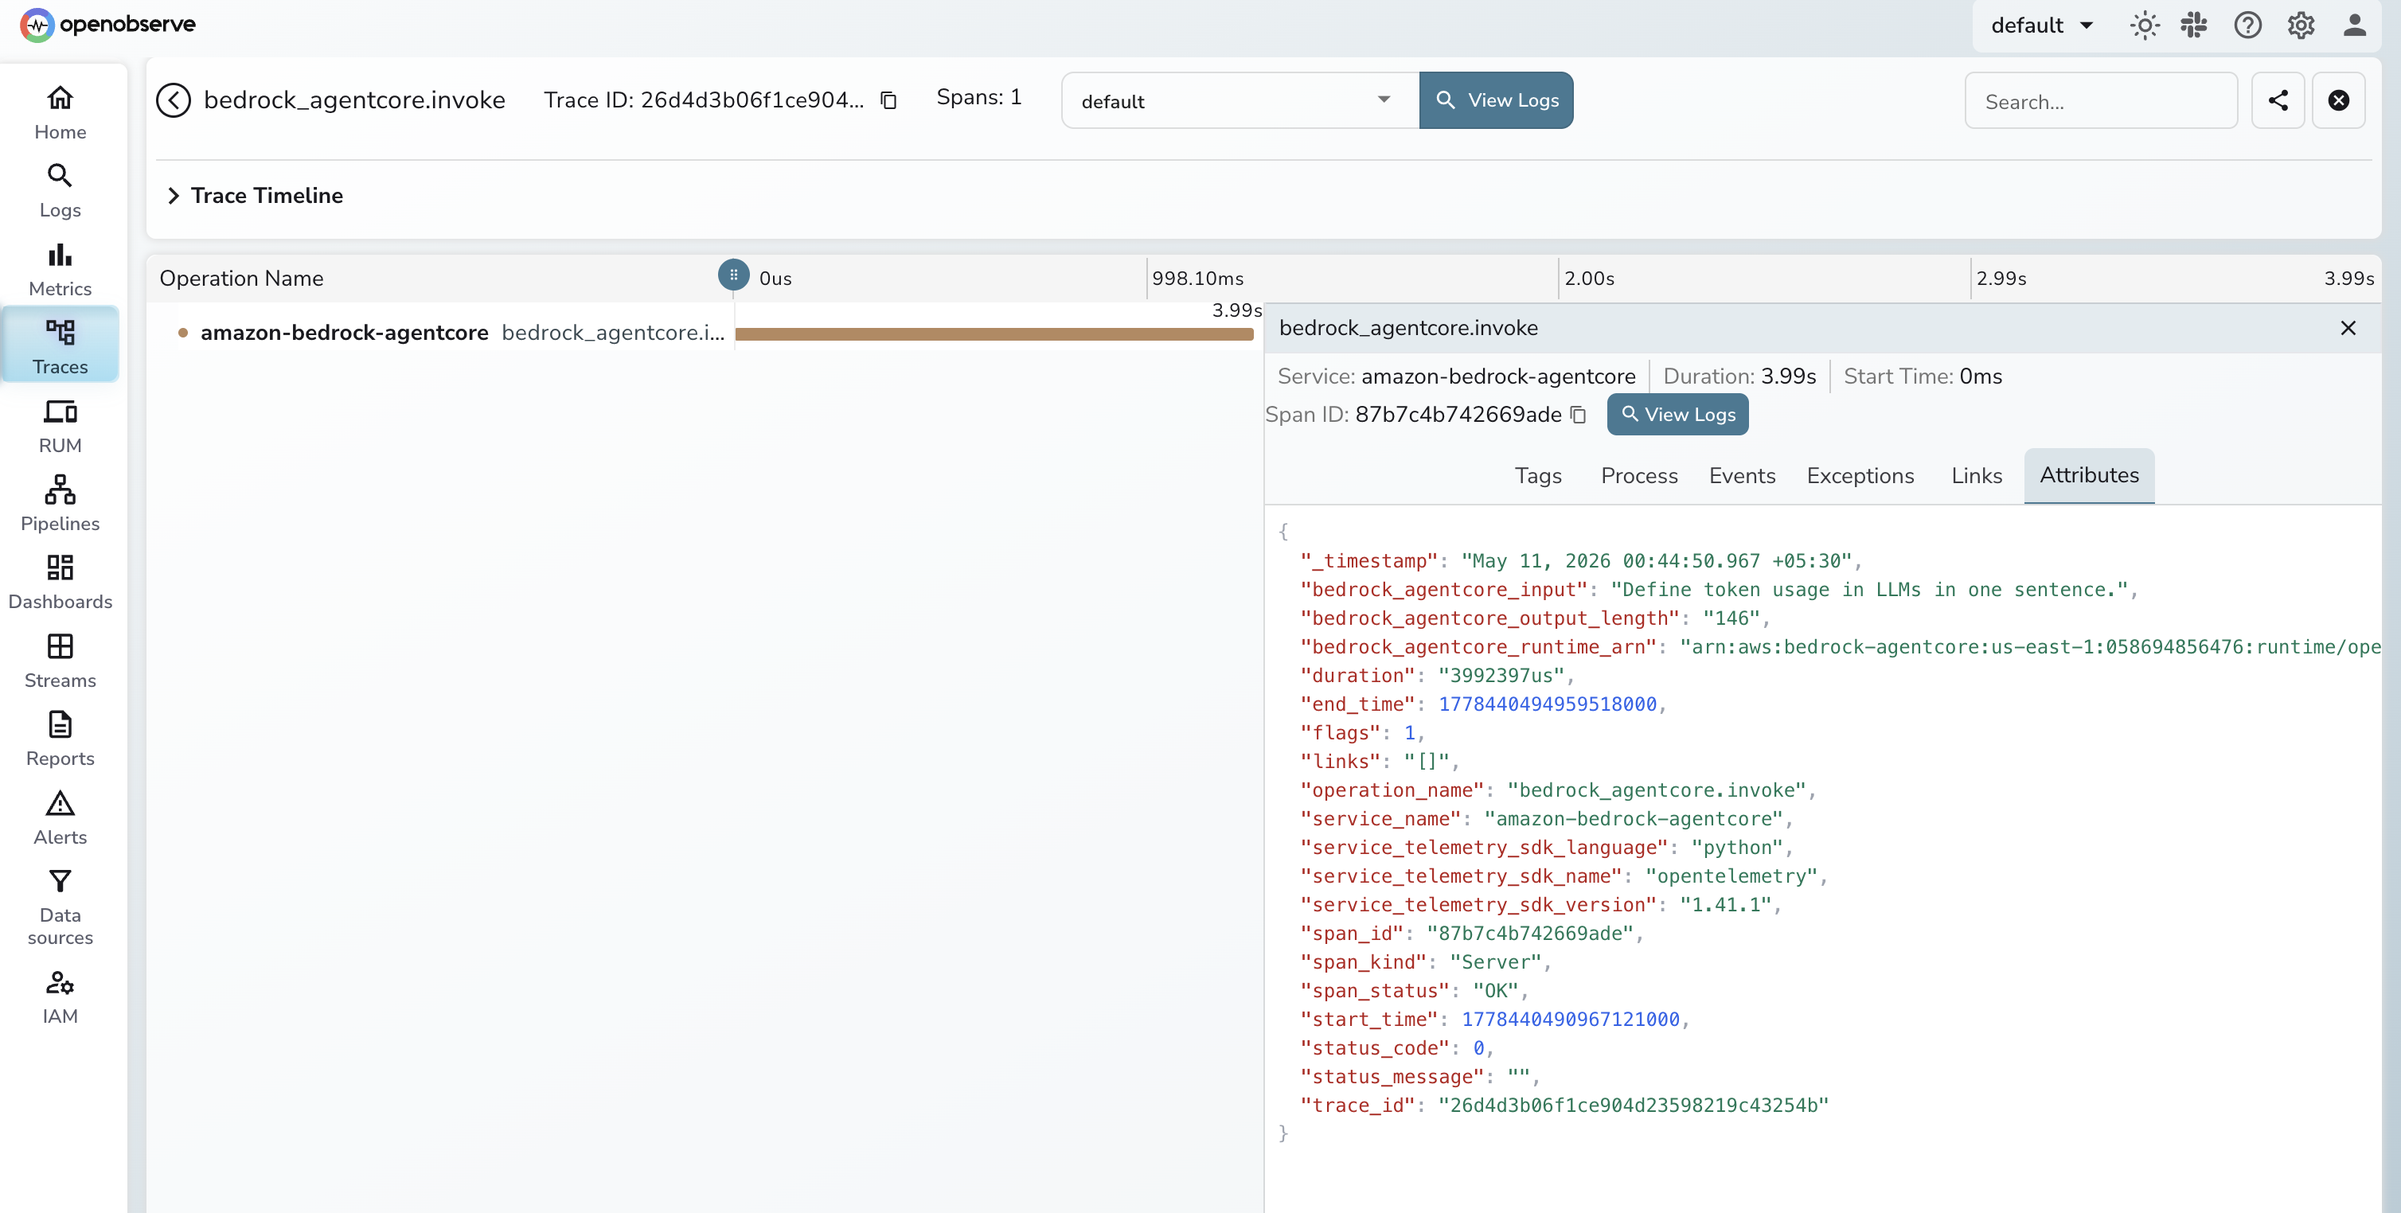
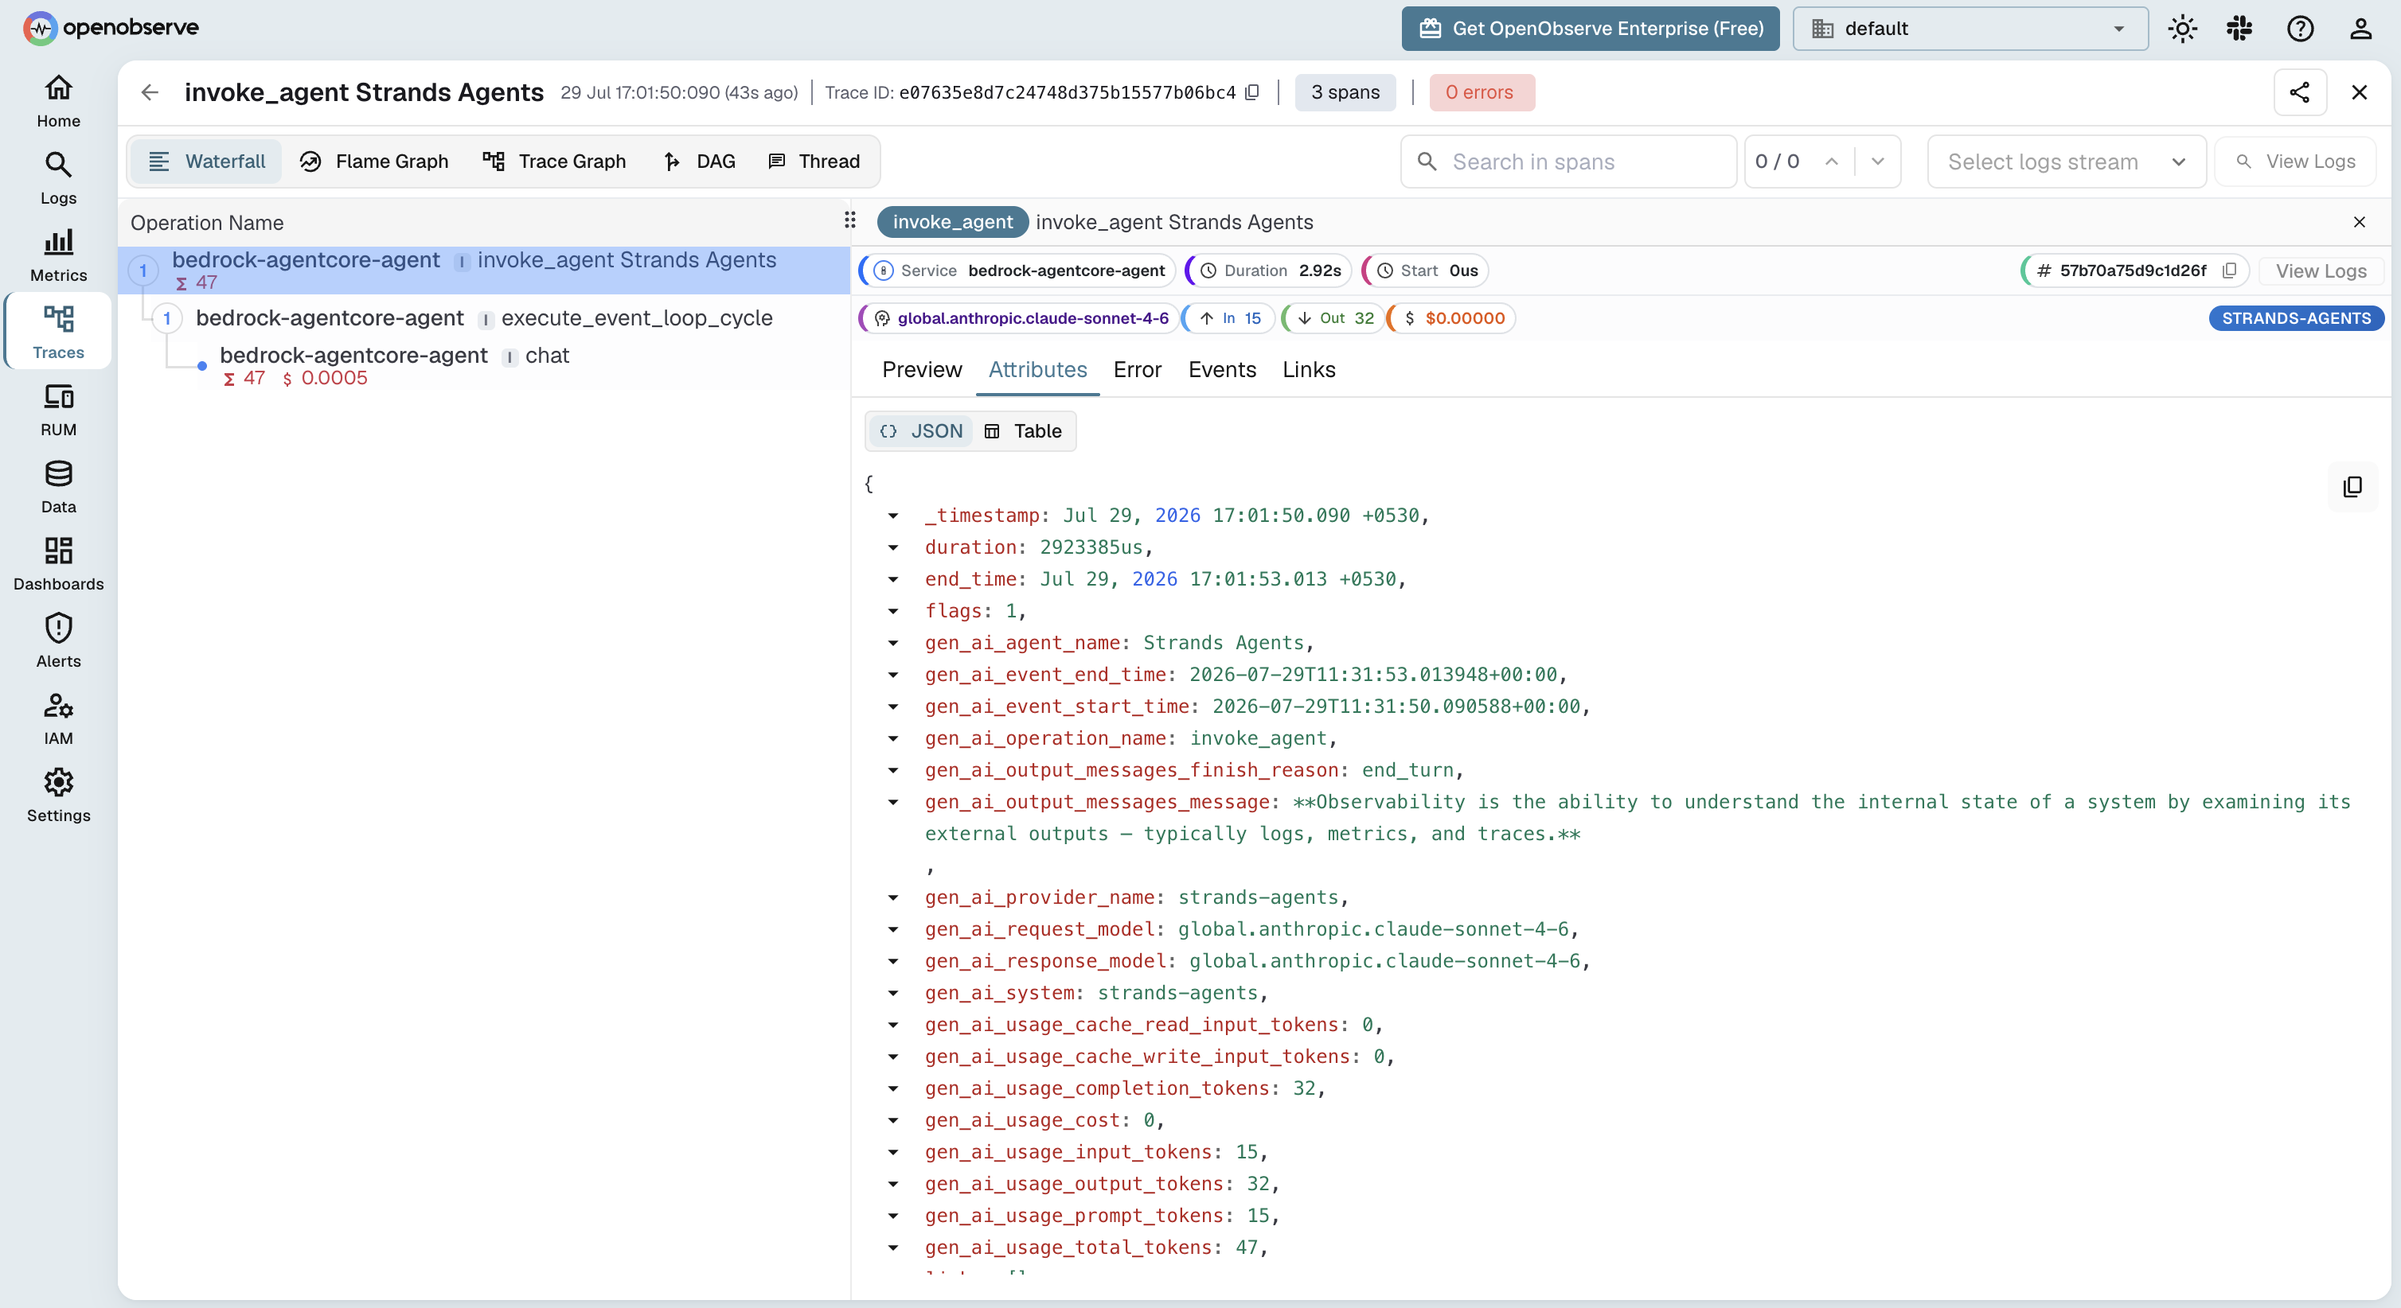
docs: GitHub Copilot tracing integration + Bedrock AgentCore runtime OTLP export
- New GitHub Copilot page: native OTel export from Copilot CLI / VS Code
  Copilot Chat to OpenObserve. Verified end-to-end against a live instance;
  documents the required COPILOT_OTEL_EXPORTER_TYPE=otlp-http and
  OTEL_EXPORTER_OTLP_PROTOCOL=http/protobuf settings (OTLP JSON is rejected).
- Amazon Bedrock AgentCore: add runtime-native OTLP export as the primary
  path (StrandsTelemetry + DISABLE_ADOT_OBSERVABILITY=true), keep manual
  client-side spans as the alternative; verified attribute table and fresh
  trace screenshot.
- frameworks index: list Bedrock AgentCore and Bedrock Agents (nav-only before).

diff --git a/docs/integration/ai/github-copilot-tracing.md b/docs/integration/ai/github-copilot-tracing.md
@@ -1,0 +1,142 @@
+---
+title: GitHub Copilot
+description: Send GitHub Copilot agent traces, metrics, and events from VS Code and Copilot CLI to OpenObserve with native OpenTelemetry export.
+---
+
+# GitHub Copilot → OpenObserve
+
+Monitor [GitHub Copilot](https://github.com/features/copilot) agent sessions in [OpenObserve](https://openobserve.ai) using OpenTelemetry.
+
+Both the **Copilot Chat extension in VS Code** and the **Copilot CLI** ship with a native OpenTelemetry exporter. Point it at OpenObserve's OTLP endpoint and every agent interaction — model calls, tool executions, token usage — streams in directly. No collector, no SDK, no custom code.
+
+## What you get
+
+| Signal | Examples | Stored in OpenObserve as |
+|---|---|---|
+| **Traces** | span tree per agent turn: `invoke_agent` → `chat`, `execute_tool`, `execute_hook`, following the OTel GenAI semantic conventions | A traces stream |
+| **Metrics** | token-usage histograms, operation durations, tool call counts, edit acceptance | Metric streams |
+| **Events** | inference details, session starts, tool invocations, agent turns | A log stream |
+
+## Prerequisites
+
+* GitHub Copilot with an active subscription — the [Copilot CLI](https://docs.github.com/en/copilot/concepts/agents/about-copilot-cli) (`npm install -g @github/copilot`) and/or VS Code with the Copilot Chat extension
+* An [OpenObserve](https://openobserve.ai/) account (cloud or self-hosted)
+* Your OpenObserve **organisation ID** and **Base64-encoded auth token**
+
+## Setup
+
+### 1. Get your OpenObserve endpoint and auth token
+
+OpenObserve accepts OTLP over HTTP at `https://<your-openobserve-host>/api/<your-org>`. The exporter appends `/v1/traces`, `/v1/metrics`, and `/v1/logs` itself, so configure the **base** endpoint with no trailing slash.
+
+Generate the `Authorization` value (`Basic <base64(email:password)>`):
+
+```bash
+echo -n 'your-email:your-password' | base64
+```
+
+### 2. Configure GitHub Copilot
+
+=== "Copilot CLI"
+
+    Export the OTLP environment variables before starting `copilot` (add to your shell profile to persist):
+
+    ```bash
+    export COPILOT_OTEL_ENABLED=true
+    export COPILOT_OTEL_EXPORTER_TYPE=otlp-http
+    export OTEL_EXPORTER_OTLP_PROTOCOL=http/protobuf
+    export OTEL_EXPORTER_OTLP_ENDPOINT="https://<your-openobserve-host>/api/<your-org>"
+    export OTEL_EXPORTER_OTLP_HEADERS="Authorization=Basic <base64-token>"
+    export OTEL_SERVICE_NAME=github-copilot
+    ```
+
+    All three of the first variables matter: without `COPILOT_OTEL_EXPORTER_TYPE=otlp-http` the CLI writes telemetry to a local file exporter instead of sending OTLP, and without `OTEL_EXPORTER_OTLP_PROTOCOL=http/protobuf` it sends OTLP JSON, which OpenObserve rejects with a `400`.
+
+=== "VS Code (Copilot Chat)"
+
+    Add to VS Code `settings.json`:
+
+    ```json
+    {
+      "github.copilot.chat.otel.enabled": true,
+      "github.copilot.chat.otel.exporterType": "otlp-http",
+      "github.copilot.chat.otel.otlpEndpoint": "https://<your-openobserve-host>/api/<your-org>"
+    }
+    ```
+
+    The auth header cannot be set in `settings.json` — it comes from the environment, so launch VS Code with the variable set:
+
+    ```bash
+    export OTEL_EXPORTER_OTLP_HEADERS="Authorization=Basic <base64-token>"
+    code .
+    ```
+
+**Environment variables**
+
+| Variable | Description | Default |
+|---|---|---|
+| `COPILOT_OTEL_ENABLED` | Enable OTel export | `false` |
+| `COPILOT_OTEL_EXPORTER_TYPE` | Exporter backend — set to `otlp-http` (CLI defaults to a local `file` exporter) | `file` |
+| `OTEL_EXPORTER_OTLP_ENDPOINT` | OpenObserve base endpoint, no trailing slash | — |
+| `OTEL_EXPORTER_OTLP_HEADERS` | Auth headers (`Authorization=Basic <base64-token>`) | — |
+| `OTEL_EXPORTER_OTLP_PROTOCOL` | Set to `http/protobuf` — required for OpenObserve | `http/json` |
+| `OTEL_SERVICE_NAME` | Service name on all telemetry | `copilot-chat` |
+| `OTEL_RESOURCE_ATTRIBUTES` | Extra resource attributes (`key1=val1,key2=val2`) | — |
+| `COPILOT_OTEL_CAPTURE_CONTENT` | Capture full prompt/response text | `false` |
+| `COPILOT_OTEL_LOG_LEVEL` | Minimum event level (`trace`…`error`) | `info` |
+
+!!! note "OTLP over HTTP only for the CLI"
+    The Copilot CLI exports over OTLP HTTP only — if `grpc` is configured it silently falls back to HTTP. Use the HTTP endpoint form shown above.
+
+!!! warning "Prompt capture is off by default"
+    `COPILOT_OTEL_CAPTURE_CONTENT=true` includes full prompt and response text in the telemetry. Leave it off unless you have a deliberate reason, and make sure OpenObserve retention and access controls match your data-handling policy.
+
+### 3. Verify
+
+1. Run a Copilot session — e.g. `copilot` in a terminal, ask it something — or use Copilot Chat in VS Code.
+2. In OpenObserve, open **Traces** and filter by `service_name = 'github-copilot'` (or `copilot-chat` if you didn't set a service name). Each turn appears as an `invoke_agent` root span with a `chat <model>` child carrying `gen_ai_provider_name`, the model, and token usage.
+3. Open **Metrics** and look for the Copilot token-usage and duration streams.
+
+![GitHub Copilot trace in OpenObserve](../../images/integration/ai/github-copilot.png)
+
+## What Gets Captured
+
+| Attribute | Description |
+|---|---|
+| `gen_ai_operation_name` | Operation per span (`invoke_agent`, `chat`, `execute_tool`) |
+| `gen_ai_provider_name` | Model provider behind the request |
+| `gen_ai_request_model` / `gen_ai_response_model` | Model used for the turn |
+| `gen_ai_usage_input_tokens` / `gen_ai_usage_output_tokens` | Token usage per model call |
+| `gen_ai_tool_name` | Tool invoked in `execute_tool` spans |
+| `github_copilot_agent_type` | Copilot agent surface (CLI, chat) |
+| `github_copilot_git_repository` | Repository the session ran in |
+| `span_status` | `OK` on success, `ERROR` on failure |
+| `duration` | Latency of each agent step |
+
+With `COPILOT_OTEL_CAPTURE_CONTENT=true`, prompt and response text are added to the inference spans.
+
+## Org-wide rollout
+
+GitHub Enterprise administrators can mandate the OTel destination centrally via the `telemetry` block in [enterprise-managed settings](https://github.blog/changelog/2026-07-08-enterprise-managed-opentelemetry-export-for-vs-code-and-cli/), so telemetry from every developer's VS Code and Copilot CLI flows to OpenObserve without per-user environment variables.
+
+## Troubleshooting
+
+The CLI logs its OTel state to `~/.copilot/logs/` — set `COPILOT_OTEL_LOG_LEVEL=debug` for detail. On startup you should see `OpenTelemetry enabled: exporter=otlp-http`.
+
+| Symptom | Cause | Fix |
+|---|---|---|
+| No data at all | Exporter not enabled | Set `COPILOT_OTEL_ENABLED=true` and restart the session |
+| Log shows `exporter=file` | Default exporter is a local file | Set `COPILOT_OTEL_EXPORTER_TYPE=otlp-http` |
+| Log shows `HTTP export failed: network error` | OTLP JSON payload rejected by OpenObserve (`400`) | Set `OTEL_EXPORTER_OTLP_PROTOCOL=http/protobuf` |
+| `404` on export | Trailing slash on the endpoint | Use `.../api/<org>` with no trailing `/` |
+| `401`/`403` errors | Wrong auth header | Re-encode `email:password`; header is `Authorization=Basic <base64>` |
+| Traces but no content | Content capture disabled (default) | Set `COPILOT_OTEL_CAPTURE_CONTENT=true` if you need it |
+| VS Code sends nothing | Env var not visible to the app | Launch VS Code from a shell that has `OTEL_EXPORTER_OTLP_HEADERS` exported |
+
+## Read More
+
+- [Claude Code](claude-code-tracing.md)
+- [LLM Observability Overview](llm-applications.md)
+- [OTLP / OpenTelemetry ingestion](../../ingestion/logs/otlp.md)
+- [Exploring Traces in OpenObserve](../../user-guide/data-exploration/traces/index.md)
+- [Building Dashboards](../../user-guide/analytics/dashboards/index.md)

diff --git a/docs/integration/ai/frameworks/amazon-bedrock-agentcore.md b/docs/integration/ai/frameworks/amazon-bedrock-agentcore.md
@@ -1,27 +1,94 @@
 ---
 title: Amazon Bedrock AgentCore
-description: Instrument Amazon Bedrock AgentCore invocations and send traces to OpenObserve via OpenTelemetry.
+description: Send Amazon Bedrock AgentCore runtime traces to OpenObserve via OpenTelemetry OTLP export.
 ---
 
 # **Amazon Bedrock AgentCore → OpenObserve**
 
-Capture latency and invocation metadata for every Amazon Bedrock AgentCore runtime call using manual OpenTelemetry spans.
+Amazon Bedrock AgentCore is AWS's managed runtime for deploying and operating AI agents. There are two ways to get AgentCore telemetry into OpenObserve:
+
+1. **Runtime OTLP export (recommended)** — the agent running inside AgentCore exports its own traces (model calls, tool invocations, agent loops) directly to OpenObserve via standard OpenTelemetry environment variables.
+2. **Client-side spans** — wrap each `invoke_agent_runtime` call in a manual span to capture invocation latency and metadata from the calling application.
 
 ## **Prerequisites**
 
-* Python 3.8+
+* Python 3.10+
 * An [OpenObserve](https://openobserve.ai/) account (cloud or self-hosted)
 * Your OpenObserve **organisation ID** and **Base64-encoded auth token**
 * AWS credentials with `BedrockAgentCoreFullAccess` and `AmazonBedrockFullAccess` permissions
-* A deployed AgentCore runtime ARN. See [Get started with AgentCore runtime](https://docs.aws.amazon.com/bedrock-agentcore/latest/devguide/runtime-getting-started.html).
+* For option 1: the [AgentCore starter toolkit](https://docs.aws.amazon.com/bedrock-agentcore/latest/devguide/runtime-getting-started.html) to deploy an agent
+* For option 2: a deployed AgentCore runtime ARN
 
-## **Installation**
+## **Option 1: Export Runtime Traces via OTLP**
+
+Agents deployed to AgentCore emit OpenTelemetry traces. By default these go to CloudWatch through the AWS Distro for OpenTelemetry (ADOT); setting `DISABLE_ADOT_OBSERVABILITY=true` together with standard OTLP environment variables routes them to OpenObserve instead.
+
+### **Create the agent**
+
+`agent.py` — a minimal [Strands](strands-agents.md) agent hosted in AgentCore. The `StrandsTelemetry` call is required: it registers the OTLP exporter from the `OTEL_EXPORTER_OTLP_*` environment variables. Without it no spans are exported, because `DISABLE_ADOT_OBSERVABILITY=true` also turns off the ADOT auto-instrumentation that would otherwise do this.
+
+```python
+from strands.telemetry import StrandsTelemetry
+StrandsTelemetry().setup_otlp_exporter()
+
+from bedrock_agentcore.runtime import BedrockAgentCoreApp
+from strands import Agent
+
+app = BedrockAgentCoreApp()
+agent = Agent()
+
+@app.entrypoint
+def invoke(payload):
+    result = agent(payload.get("prompt", "Hello"))
+    return {"result": result.message}
+
+if __name__ == "__main__":
+    app.run()
+```
+
+`requirements.txt`:
+
+```
+bedrock-agentcore
+strands-agents[otel]
+```
+
+### **Deploy with OTLP environment variables**
+
+Install the starter toolkit, then configure and launch the agent with the OpenObserve endpoint. The exporter appends `/v1/traces` automatically, so set the endpoint without the path suffix.
+
+```shell
+pip install bedrock-agentcore-starter-toolkit
+
+agentcore configure --entrypoint agent.py
+
+agentcore launch \
+  --env DISABLE_ADOT_OBSERVABILITY=true \
+  --env OTEL_EXPORTER_OTLP_PROTOCOL=http/protobuf \
+  --env OTEL_EXPORTER_OTLP_ENDPOINT=https://api.openobserve.ai/api/your_org_id \
+  --env "OTEL_EXPORTER_OTLP_HEADERS=Authorization=Basic <your_base64_token>" \
+  --env OTEL_SERVICE_NAME=bedrock-agentcore-agent
+```
+
+For a self-hosted OpenObserve instance replace the endpoint, e.g. `http://your-host:5080/api/default`.
+
+### **Invoke the agent**
+
+```shell
+agentcore invoke '{"prompt": "Explain observability in one sentence."}'
+```
+
+Each invocation produces a full trace in OpenObserve: the agent loop, every model call with token usage, and every tool invocation as child spans.
+
+## **Option 2: Client-Side Invocation Spans**
+
+If you only need invocation latency from the calling application, wrap each runtime call in a manual span.
+
+Install dependencies:
 
 ```shell
 pip install openobserve-telemetry-sdk boto3 python-dotenv
 ```
-
-## **Configuration**
 
 Create a `.env` file in your project root:
 
@@ -35,10 +102,6 @@ AWS_SECRET_ACCESS_KEY=your-secret-access-key
 AWS_DEFAULT_REGION=your-aws-region
 BEDROCK_AGENTCORE_RUNTIME_ARN=arn:aws:bedrock-agentcore:us-east-1:123456789012:runtime/your-runtime-id
 ```
-
-## **Instrumentation**
-
-AgentCore does not have an auto-instrumentation package. Wrap each invocation in a manual span.
 
 ```python
 from dotenv import load_dotenv
@@ -77,6 +140,21 @@ with tracer.start_as_current_span("bedrock_agentcore.invoke") as span:
 
 ## **What Gets Captured**
 
+With runtime OTLP export (option 1), each invocation produces a trace with spans `invoke_agent Strands Agents` → `execute_event_loop_cycle` → `chat`, plus one span per tool call, following the `gen_ai.*` semantic conventions:
+
+| Attribute | Description |
+|---|---|
+| `gen_ai_agent_name` / `gen_ai_system` | Agent framework identifier (`Strands Agents` / `strands-agents`) |
+| `gen_ai_operation_name` | Operation per span (e.g. `invoke_agent`, `chat`) |
+| `gen_ai_request_model` / `gen_ai_response_model` | Model invoked by the agent |
+| `gen_ai_usage_input_tokens` / `gen_ai_usage_output_tokens` / `gen_ai_usage_total_tokens` | Token usage per model call |
+| `gen_ai_output_messages_message` | The agent's response text |
+| `gen_ai_output_messages_finish_reason` | Why generation stopped (e.g. `end_turn`) |
+| `span_status` | `OK` on success, `ERROR` on failure |
+| `duration` | Latency of each step in the agent loop |
+
+With client-side spans (option 2):
+
 | Attribute | Description |
 |---|---|
 | `operation_name` | Always `bedrock_agentcore.invoke` |
@@ -89,17 +167,19 @@ with tracer.start_as_current_span("bedrock_agentcore.invoke") as span:
 ## **Viewing Traces**
 
 1. Log in to OpenObserve and navigate to **Traces** in the left sidebar
-2. Click any `bedrock_agentcore.invoke` span to inspect latency and input/output attributes
+2. Filter by `service_name = bedrock-agentcore-agent` (option 1) or `service_name = amazon-bedrock-agentcore` (option 2)
+3. Click a span to inspect latency, token usage, and input/output attributes
 
 ![Amazon Bedrock AgentCore trace in OpenObserve](../../../images/integration/ai/amazon-bedrock-agentcore.png)
 
 ## **Next Steps**
 
-Track agent latency over time, set alerts on slow or failing invocations, and correlate agent spans with downstream Bedrock model calls.
+Track agent latency over time, set alerts on slow or failing invocations, monitor token usage per model call, and correlate agent spans with downstream Bedrock model calls.
 
 ## **Read More**
 
 - [LLM Observability Overview](../llm-applications.md)
+- [Strands Agents](strands-agents.md)
 - [Amazon Bedrock](../providers/amazon-bedrock.md)
 - [Explore Traces](../../../user-guide/data-exploration/traces/index.md)
 - [Alerts](../../../user-guide/analytics/alerts/index.md)

diff --git a/docs/integration/ai/frameworks/index.md b/docs/integration/ai/frameworks/index.md
@@ -12,6 +12,8 @@ These integrations capture token usage, latency per step, agent reasoning traces
 ## Framework Integration Guides
 
 - [Agno](agno.md)
+- [Amazon Bedrock AgentCore](amazon-bedrock-agentcore.md)
+- [Amazon Bedrock Agents](amazon-bedrock-agents.md)
 - [AutoGen](autogen.md)
 - [BeeAI](beeai.md)
 - [Claude Agent SDK](claude-agent-sdk.md)
